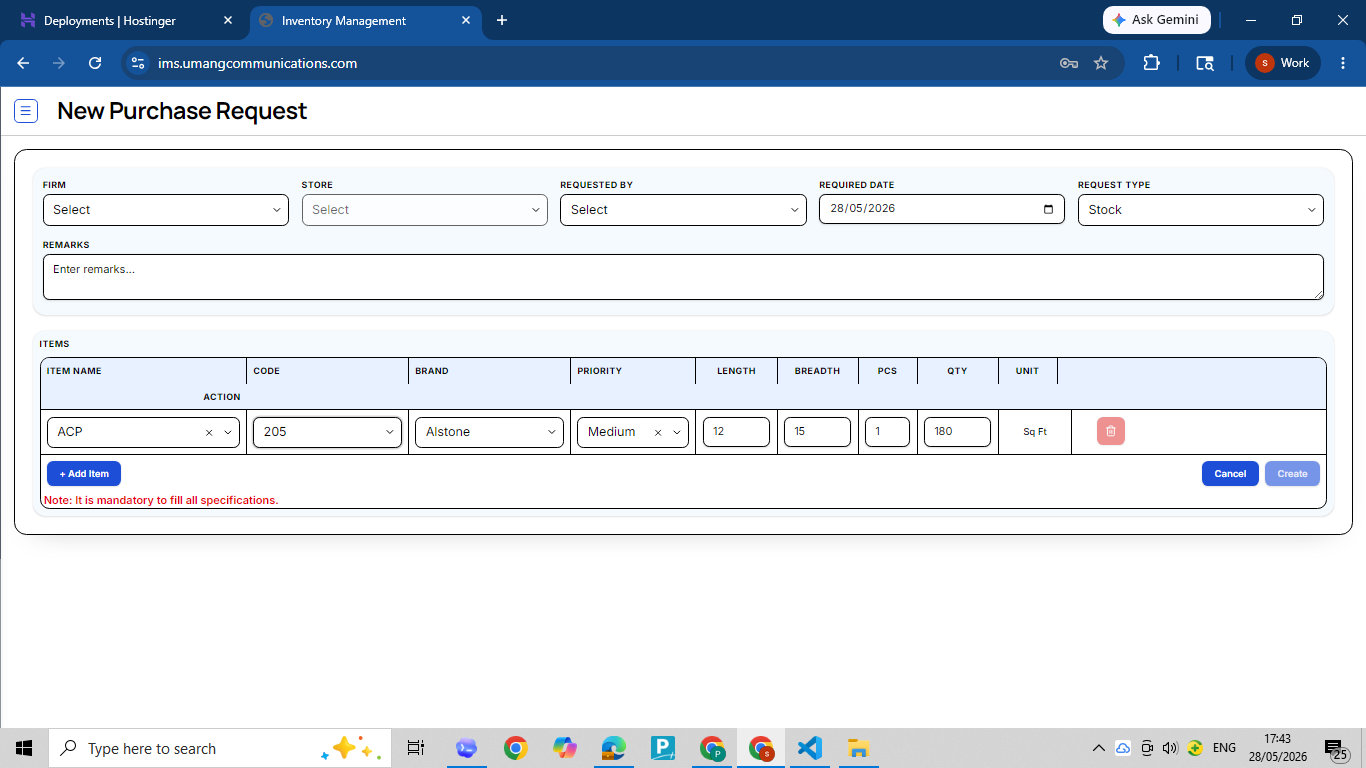
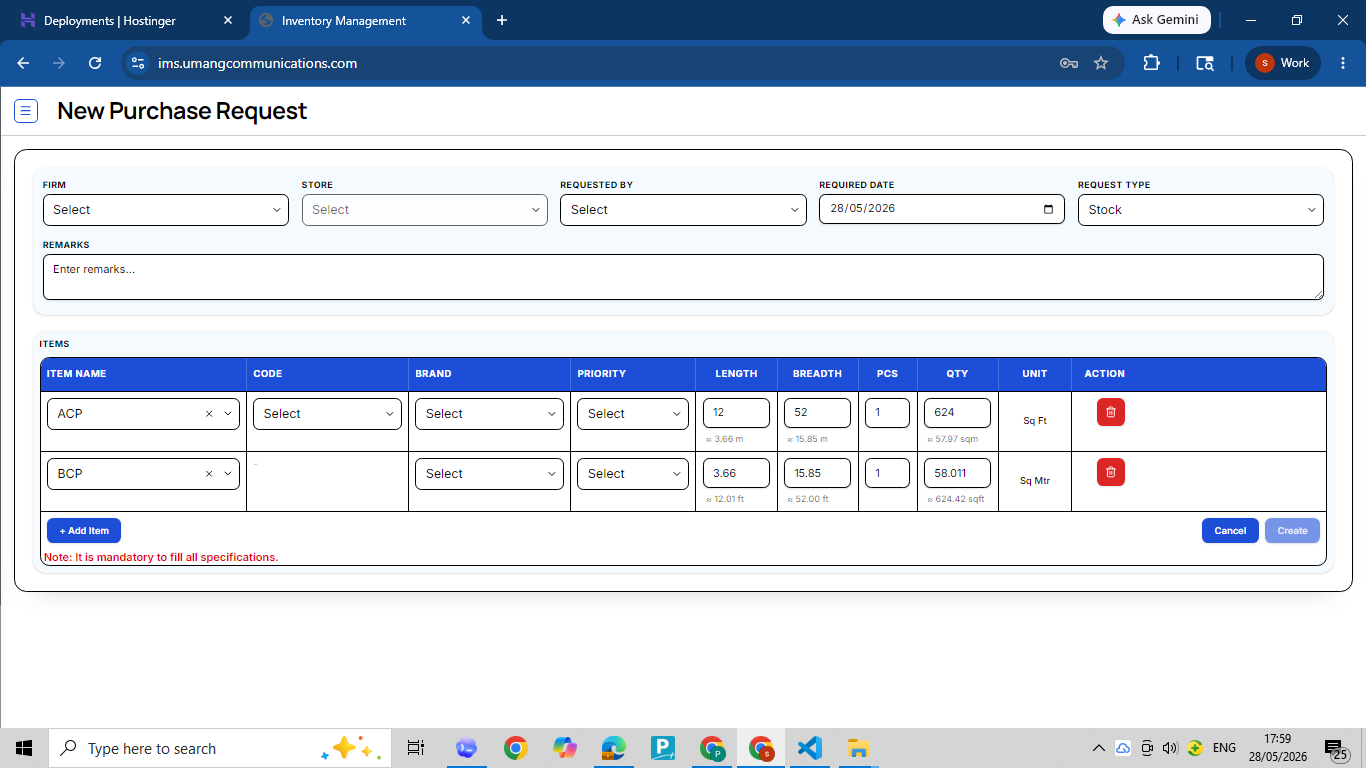
gray background

Changed region(s): [[0.0307, 0.4688, 0.9839, 0.75], [0.8609, 0.5938, 0.9839, 0.7188]]

diff --git a/src/components/views/NewPurchaseRequestView.tsx b/src/components/views/NewPurchaseRequestView.tsx
@@ -79,7 +79,7 @@ export default function NewPurchaseRequestView({
     if (!Number.isFinite(l) || l <= 0) return NaN;
     if (!Number.isFinite(b) || b <= 0) return NaN;
     if (!Number.isFinite(p) || p < 1) return NaN;
-    return l * b * p;
+    return round2(l * b * p);
   }
 
   function getConvertedDim(val: string, from: 'ft' | 'm' | '') {
@@ -1098,14 +1098,14 @@ export default function NewPurchaseRequestView({
                                   <div className="text-xs text-on-surface-variant opacity-80">-</div>
                                 )}
                               </div>
-								                <div className="px-2 py-2 border-r border-outline-variant space-y-1">
+								                <div className="px-2 py-2 border-r border-outline-variant space-y-1 bg-surface-container-high/50">
 						                  <input
 						                    className={inputClass}
 						                    placeholder="Qty"
 						                    type="number"
-						                    inputMode="numeric"
+						                    inputMode="decimal"
 						                    min={0}
-						                    step={1}
+						                    step={0.01}
 						                    value={row.quantity}
                                 disabled={isAreaUnit}
 						                    onChange={(e) => {
